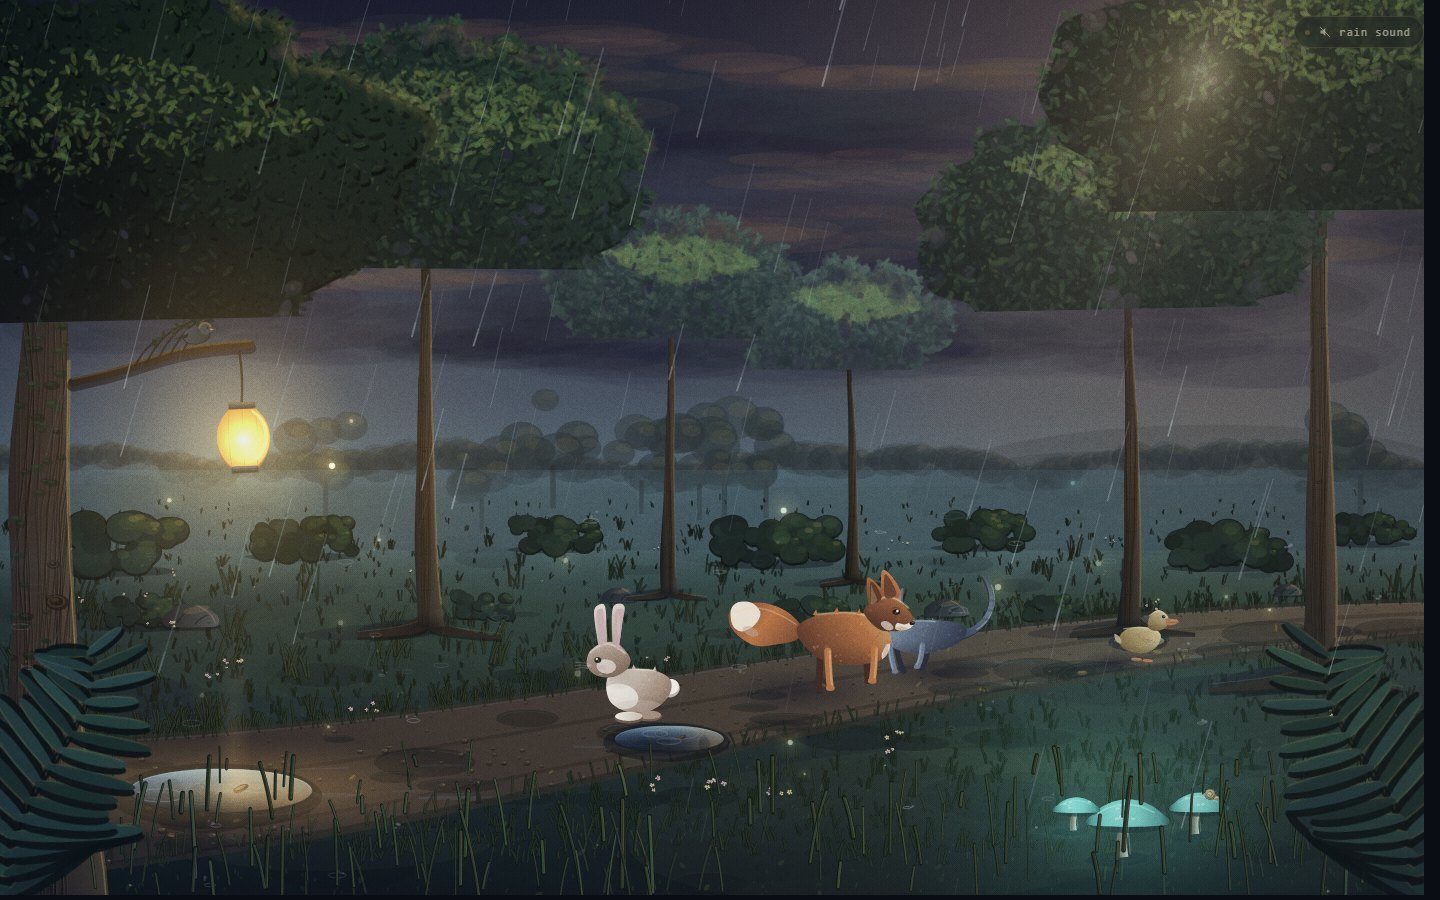
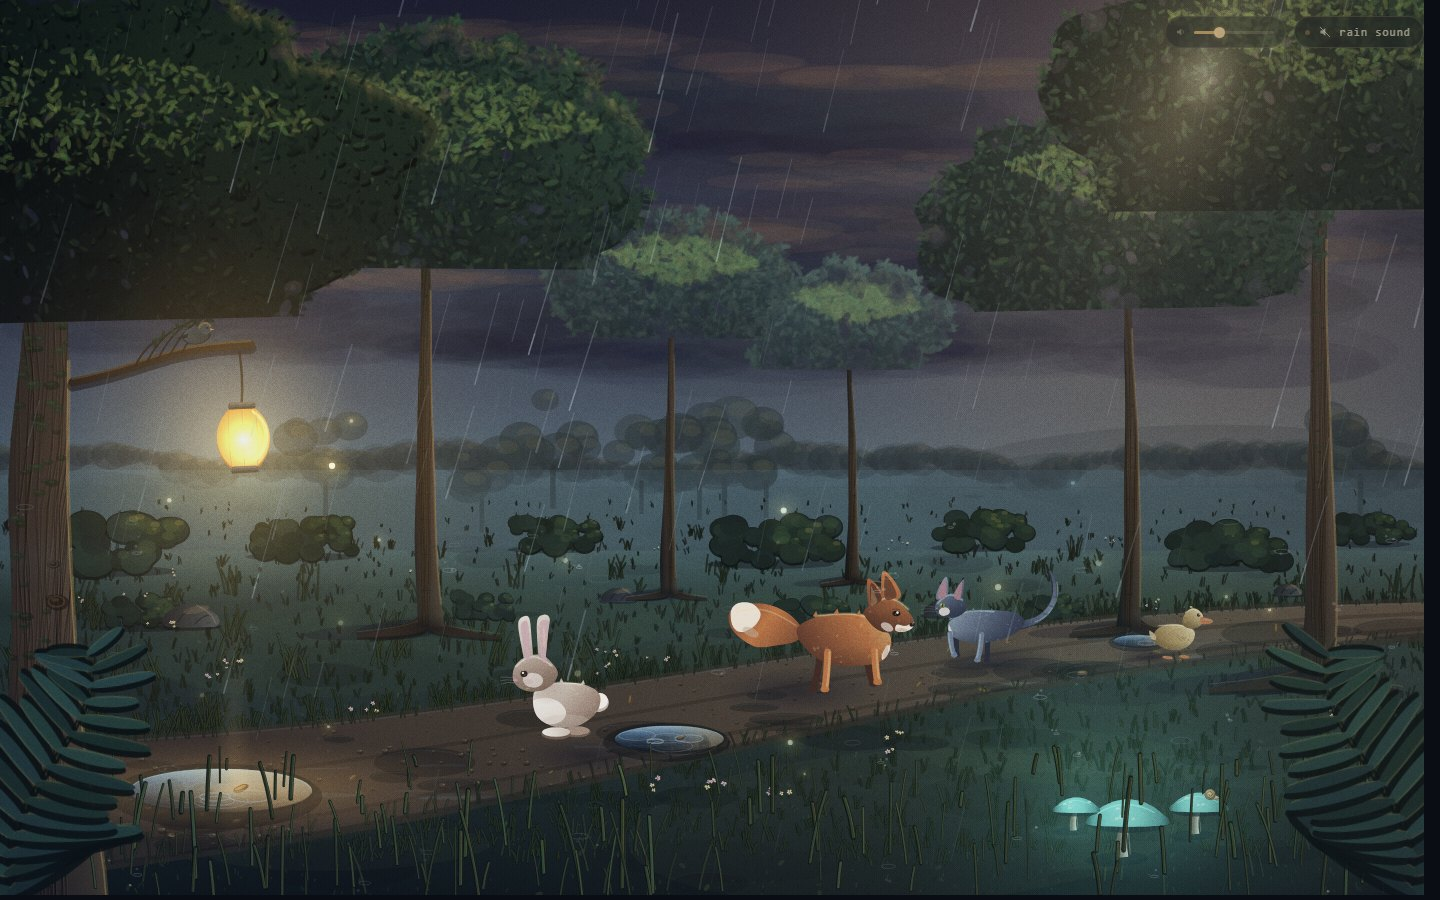
Update scene with rain volume slider and refreshed preview

diff --git a/index.html b/index.html
@@ -7,11 +7,16 @@
 <style>
   html, body { margin: 0; height: 100%; background: #0a0d14; overflow: hidden; }
   canvas { display: block; width: 100vw; height: 100vh; touch-action: none; cursor: crosshair; }
-  .sound {
+  .audio-ui {
     position: fixed;
     top: 16px;
     right: 16px;
     z-index: 20;
+    display: flex;
+    align-items: center;
+    gap: 8px;
+  }
+  .sound {
     display: inline-flex;
     align-items: center;
     gap: 8px;
@@ -41,19 +46,94 @@
   .sound.on .wave { opacity: 1; }
   .sound .slash { opacity: 1; transition: opacity .25s ease; }
   .sound.on .slash { opacity: 0; }
+  .vol {
+    display: inline-flex;
+    align-items: center;
+    gap: 7px;
+    padding: 7px 11px 7px 9px;
+    border-radius: 999px;
+    border: 1px solid rgba(255, 224, 180, 0.13);
+    background: rgba(12, 17, 25, 0.55);
+    color: rgba(236, 224, 205, 0.72);
+    backdrop-filter: blur(7px);
+    -webkit-backdrop-filter: blur(7px);
+    opacity: 0.58;
+    transition: opacity .25s ease, border-color .25s ease;
+    user-select: none;
+  }
+  .audio-ui:hover .vol,
+  .audio-ui.on .vol { opacity: 0.95; border-color: rgba(255, 210, 150, 0.28); }
+  .vol svg { display: block; opacity: .8; }
+  .vol input[type="range"] {
+    -webkit-appearance: none;
+    appearance: none;
+    width: 80px;
+    height: 16px;
+    margin: 0;
+    background: transparent;
+    cursor: pointer;
+  }
+  .vol input[type="range"]::-webkit-slider-runnable-track {
+    height: 3px;
+    border-radius: 2px;
+    background: linear-gradient(90deg, rgba(255, 196, 120, 0.85) 0%, rgba(255, 196, 120, 0.85) var(--fill, 30%), rgba(255, 232, 205, 0.18) var(--fill, 30%), rgba(255, 232, 205, 0.18) 100%);
+  }
+  .vol input[type="range"]::-webkit-slider-thumb {
+    -webkit-appearance: none;
+    width: 11px;
+    height: 11px;
+    border-radius: 50%;
+    background: #ffd9a3;
+    border: none;
+    margin-top: -4px;
+    box-shadow: 0 0 6px rgba(255, 190, 110, 0.55);
+  }
+  .vol input[type="range"]::-moz-range-track {
+    height: 3px;
+    border-radius: 2px;
+    background: rgba(255, 232, 205, 0.18);
+  }
+  .vol input[type="range"]::-moz-range-progress {
+    height: 3px;
+    border-radius: 2px;
+    background: rgba(255, 196, 120, 0.85);
+  }
+  .vol input[type="range"]::-moz-range-thumb {
+    width: 11px;
+    height: 11px;
+    border-radius: 50%;
+    background: #ffd9a3;
+    border: none;
+    box-shadow: 0 0 6px rgba(255, 190, 110, 0.55);
+  }
+  @media (max-width: 560px) {
+    .audio-ui { top: 10px; right: 10px; gap: 6px; }
+    .vol input[type="range"] { width: 54px; }
+    .sound { padding: 7px 10px 7px 9px; }
+    .sound .lbl { display: none; }
+  }
 </style>
 </head>
 <body>
-<button id="sound" class="sound" type="button" aria-pressed="false" aria-label="Toggle rain sound" title="Rain sound">
-  <span class="dot" aria-hidden="true"></span>
-  <svg viewBox="0 0 24 24" width="14" height="14" aria-hidden="true">
-    <path d="M4.2 9.4h3.6L12.6 5v14l-4.8-4.4H4.2z" fill="currentColor" opacity=".9"/>
-    <path class="wave" d="M15.8 8.7a4.6 4.6 0 0 1 0 6.6" fill="none" stroke="currentColor" stroke-width="1.5" stroke-linecap="round"/>
-    <path class="wave" d="M18.2 6.4a8 8 0 0 1 0 11.2" fill="none" stroke="currentColor" stroke-width="1.5" stroke-linecap="round"/>
-    <path class="slash" d="M4 4l16 16" fill="none" stroke="currentColor" stroke-width="1.5" stroke-linecap="round"/>
-  </svg>
-  <span class="lbl">rain sound</span>
-</button>
+<div class="audio-ui" id="audio-ui">
+  <label class="vol" title="Rain volume">
+    <svg viewBox="0 0 24 24" width="12" height="12" aria-hidden="true">
+      <path d="M4.2 9.4h3.6L12.6 5v14l-4.8-4.4H4.2z" fill="currentColor" opacity=".85"/>
+      <path d="M15.8 8.7a4.6 4.6 0 0 1 0 6.6" fill="none" stroke="currentColor" stroke-width="1.5" stroke-linecap="round" opacity=".7"/>
+    </svg>
+    <input id="vol" type="range" min="0" max="100" step="1" value="30" aria-label="Rain volume" style="--fill:30%">
+  </label>
+  <button id="sound" class="sound" type="button" aria-pressed="false" aria-label="Toggle rain sound" title="Rain sound">
+    <span class="dot" aria-hidden="true"></span>
+    <svg viewBox="0 0 24 24" width="14" height="14" aria-hidden="true">
+      <path d="M4.2 9.4h3.6L12.6 5v14l-4.8-4.4H4.2z" fill="currentColor" opacity=".9"/>
+      <path class="wave" d="M15.8 8.7a4.6 4.6 0 0 1 0 6.6" fill="none" stroke="currentColor" stroke-width="1.5" stroke-linecap="round"/>
+      <path class="wave" d="M18.2 6.4a8 8 0 0 1 0 11.2" fill="none" stroke="currentColor" stroke-width="1.5" stroke-linecap="round"/>
+      <path class="slash" d="M4 4l16 16" fill="none" stroke="currentColor" stroke-width="1.5" stroke-linecap="round"/>
+    </svg>
+    <span class="lbl">rain sound</span>
+  </button>
+</div>
 <canvas id="scene"></canvas>
 <script>
 (() => {
@@ -3787,6 +3867,10 @@
   /* ---------- cozy rain audio ---------- */
 
   const soundBtn = document.getElementById('sound');
+  const audioUi = document.getElementById('audio-ui');
+  const volEl = document.getElementById('vol');
+  const MASTER = 0.78;
+  let volume = 0.30;
   const audio = {
     ctx: null,
     master: null,
@@ -4116,6 +4200,7 @@
     if (!soundBtn) return;
     soundBtn.classList.toggle('on', audio.on);
     soundBtn.setAttribute('aria-pressed', audio.on ? 'true' : 'false');
+    if (audioUi) audioUi.classList.toggle('on', audio.on);
   }
 
   function setAudio(on) {
@@ -4132,7 +4217,7 @@
       if (ctx.state === 'suspended') ctx.resume();
       g.cancelScheduledValues(t);
       g.setValueAtTime(Math.max(0.0001, g.value), t);
-      g.exponentialRampToValueAtTime(0.78, t + 1.8);
+      g.exponentialRampToValueAtTime(Math.max(0.0001, MASTER * volume), t + 1.8);
       scheduleDrop();
       scheduleThunder();
       scheduleWaterStep();
@@ -4153,6 +4238,25 @@
     } else {
       soundBtn.addEventListener('click', () => setAudio(!audio.on));
     }
+  }
+
+  function applyVolume() {
+    if (!volEl) return;
+    volume = clamp(parseFloat(volEl.value) / 100, 0, 1);
+    volEl.style.setProperty('--fill', Math.round(volume * 100) + '%');
+    if (audio.on && audio.ctx && audio.master) {
+      const t = audio.ctx.currentTime;
+      const g = audio.master.gain;
+      g.cancelScheduledValues(t);
+      g.setValueAtTime(Math.max(0.0001, g.value), t);
+      g.exponentialRampToValueAtTime(Math.max(0.0001, MASTER * volume), t + 0.12);
+    }
+  }
+
+  if (volEl) {
+    volume = clamp(parseFloat(volEl.value) / 100, 0, 1);
+    volEl.style.setProperty('--fill', Math.round(volume * 100) + '%');
+    volEl.addEventListener('input', applyVolume);
   }
 
   const params = new URLSearchParams(location.search);
